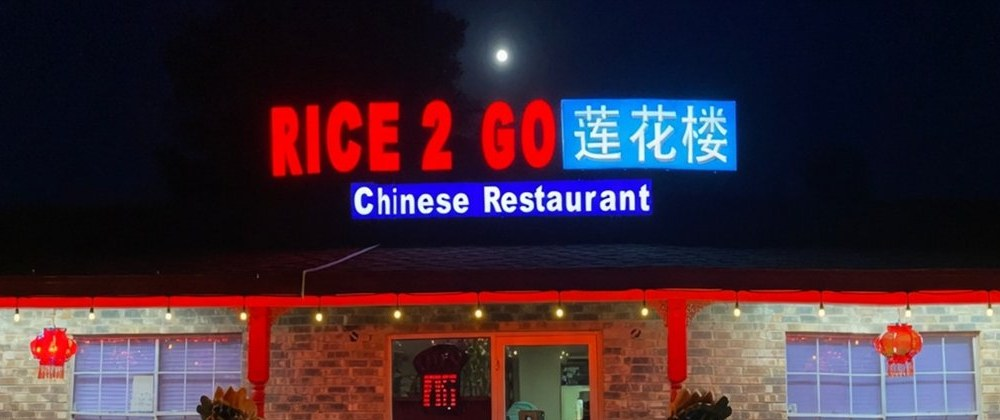
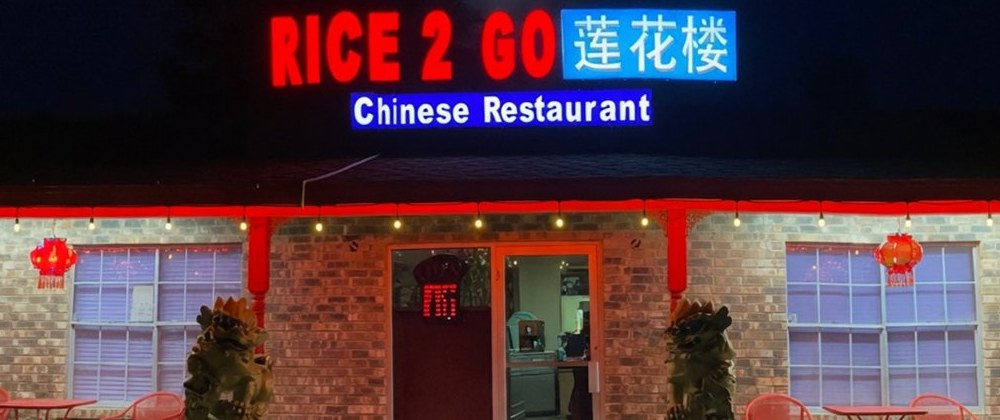
Shift the Rice 2 Go mobile hero down to show the building, not the moon.

diff --git a/public/demo/Rice2Go/index.html b/public/demo/Rice2Go/index.html
@@ -128,7 +128,7 @@
   <main id="top">
     <section class="hero">
       <picture>
-        <source media="(max-width: 860px)" srcset="images/storefront-hero-mobile.jpg" width="1000" height="420" />
+        <source media="(max-width: 860px)" srcset="images/storefront-hero-mobile.jpg?v=2" width="1000" height="420" />
         <img class="hero__bg" src="images/storefront-hero.jpg" width="1600" height="634" alt="Night storefront of Rice 2 Go in La Vernia — neon red RICE 2 GO, blue 莲花楼, red lanterns, brick, and guardian lions" />
       </picture>
       <div class="hero__shade" aria-hidden="true"></div>
